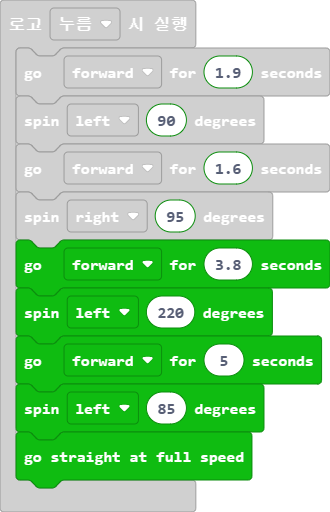
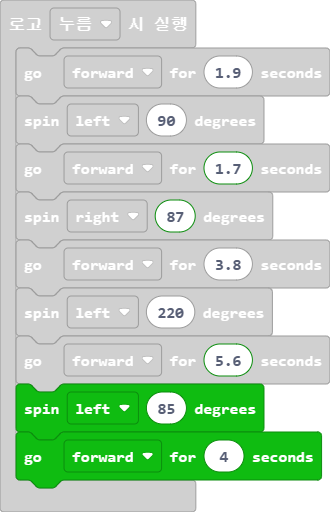
main.blocks, main.ts 업데이트하기

diff --git a/main.ts b/main.ts
@@ -1,12 +1,12 @@
 input.onLogoEvent(TouchButtonEvent.Pressed, function () {
     RingbitCar.running_time(RingbitCar.Direction_run.forward, 1.9)
     RingbitCar.steering_angle(RingbitCar.Direction_turn.left, 90)
-    RingbitCar.running_time(RingbitCar.Direction_run.forward, 1.6)
-    RingbitCar.steering_angle(RingbitCar.Direction_turn.right, 95)
+    RingbitCar.running_time(RingbitCar.Direction_run.forward, 1.7)
+    RingbitCar.steering_angle(RingbitCar.Direction_turn.right, 87)
     RingbitCar.running_time(RingbitCar.Direction_run.forward, 3.8)
     RingbitCar.steering_angle(RingbitCar.Direction_turn.left, 220)
-    RingbitCar.running_time(RingbitCar.Direction_run.forward, 5)
+    RingbitCar.running_time(RingbitCar.Direction_run.forward, 5.6)
     RingbitCar.steering_angle(RingbitCar.Direction_turn.left, 85)
-    RingbitCar.forward()
+    RingbitCar.running_time(RingbitCar.Direction_run.forward, 4)
 })
 RingbitCar.init_wheel(AnalogPin.P1, AnalogPin.P2)
